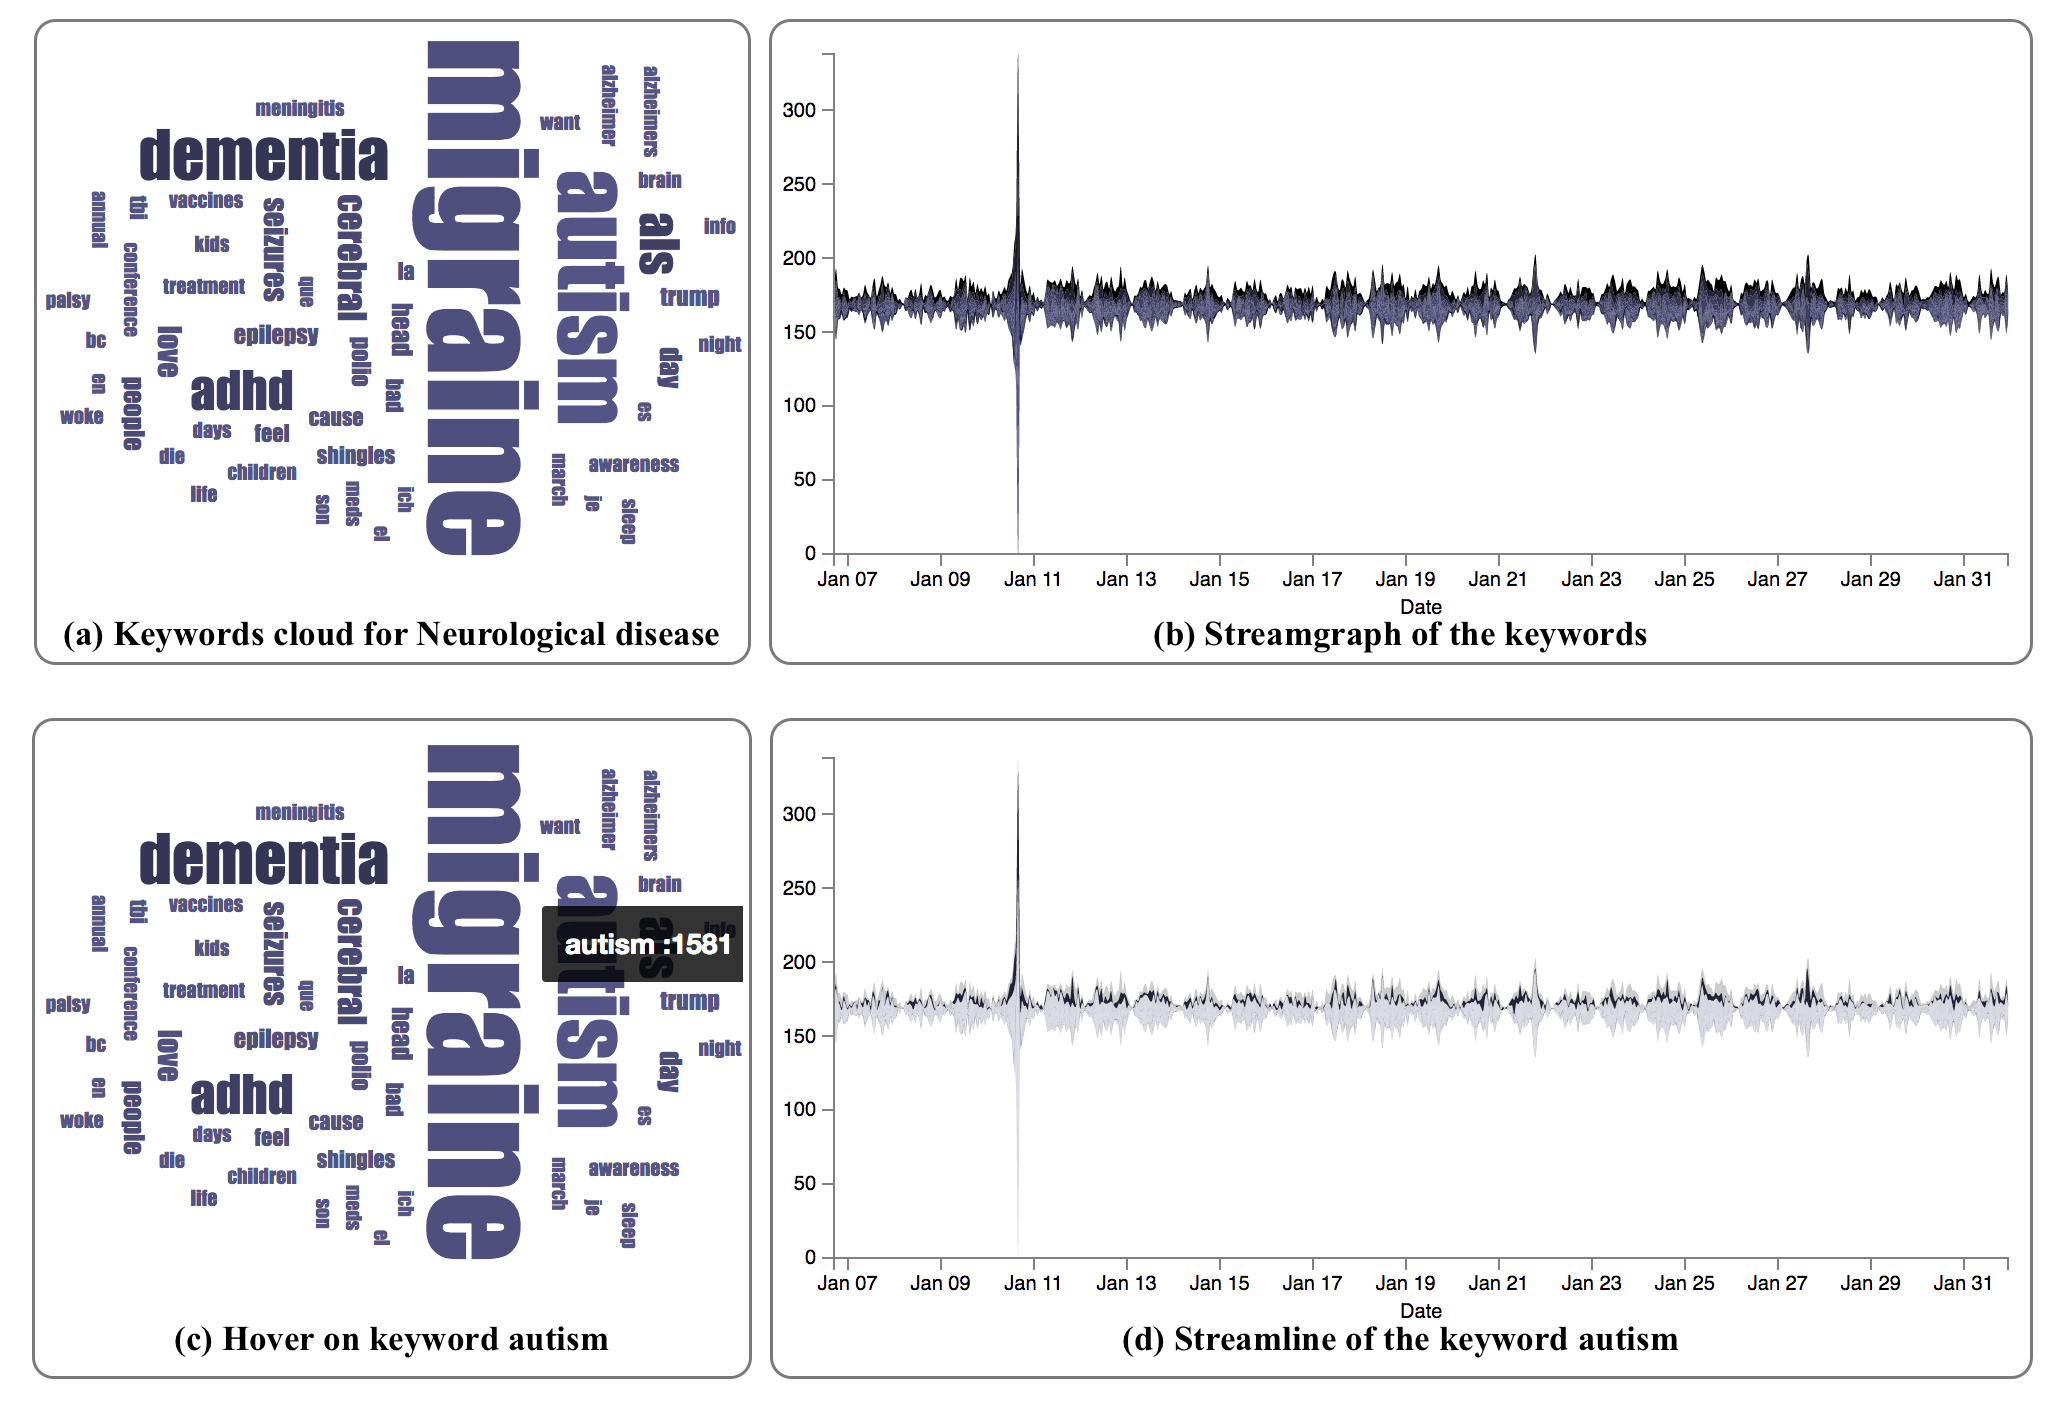
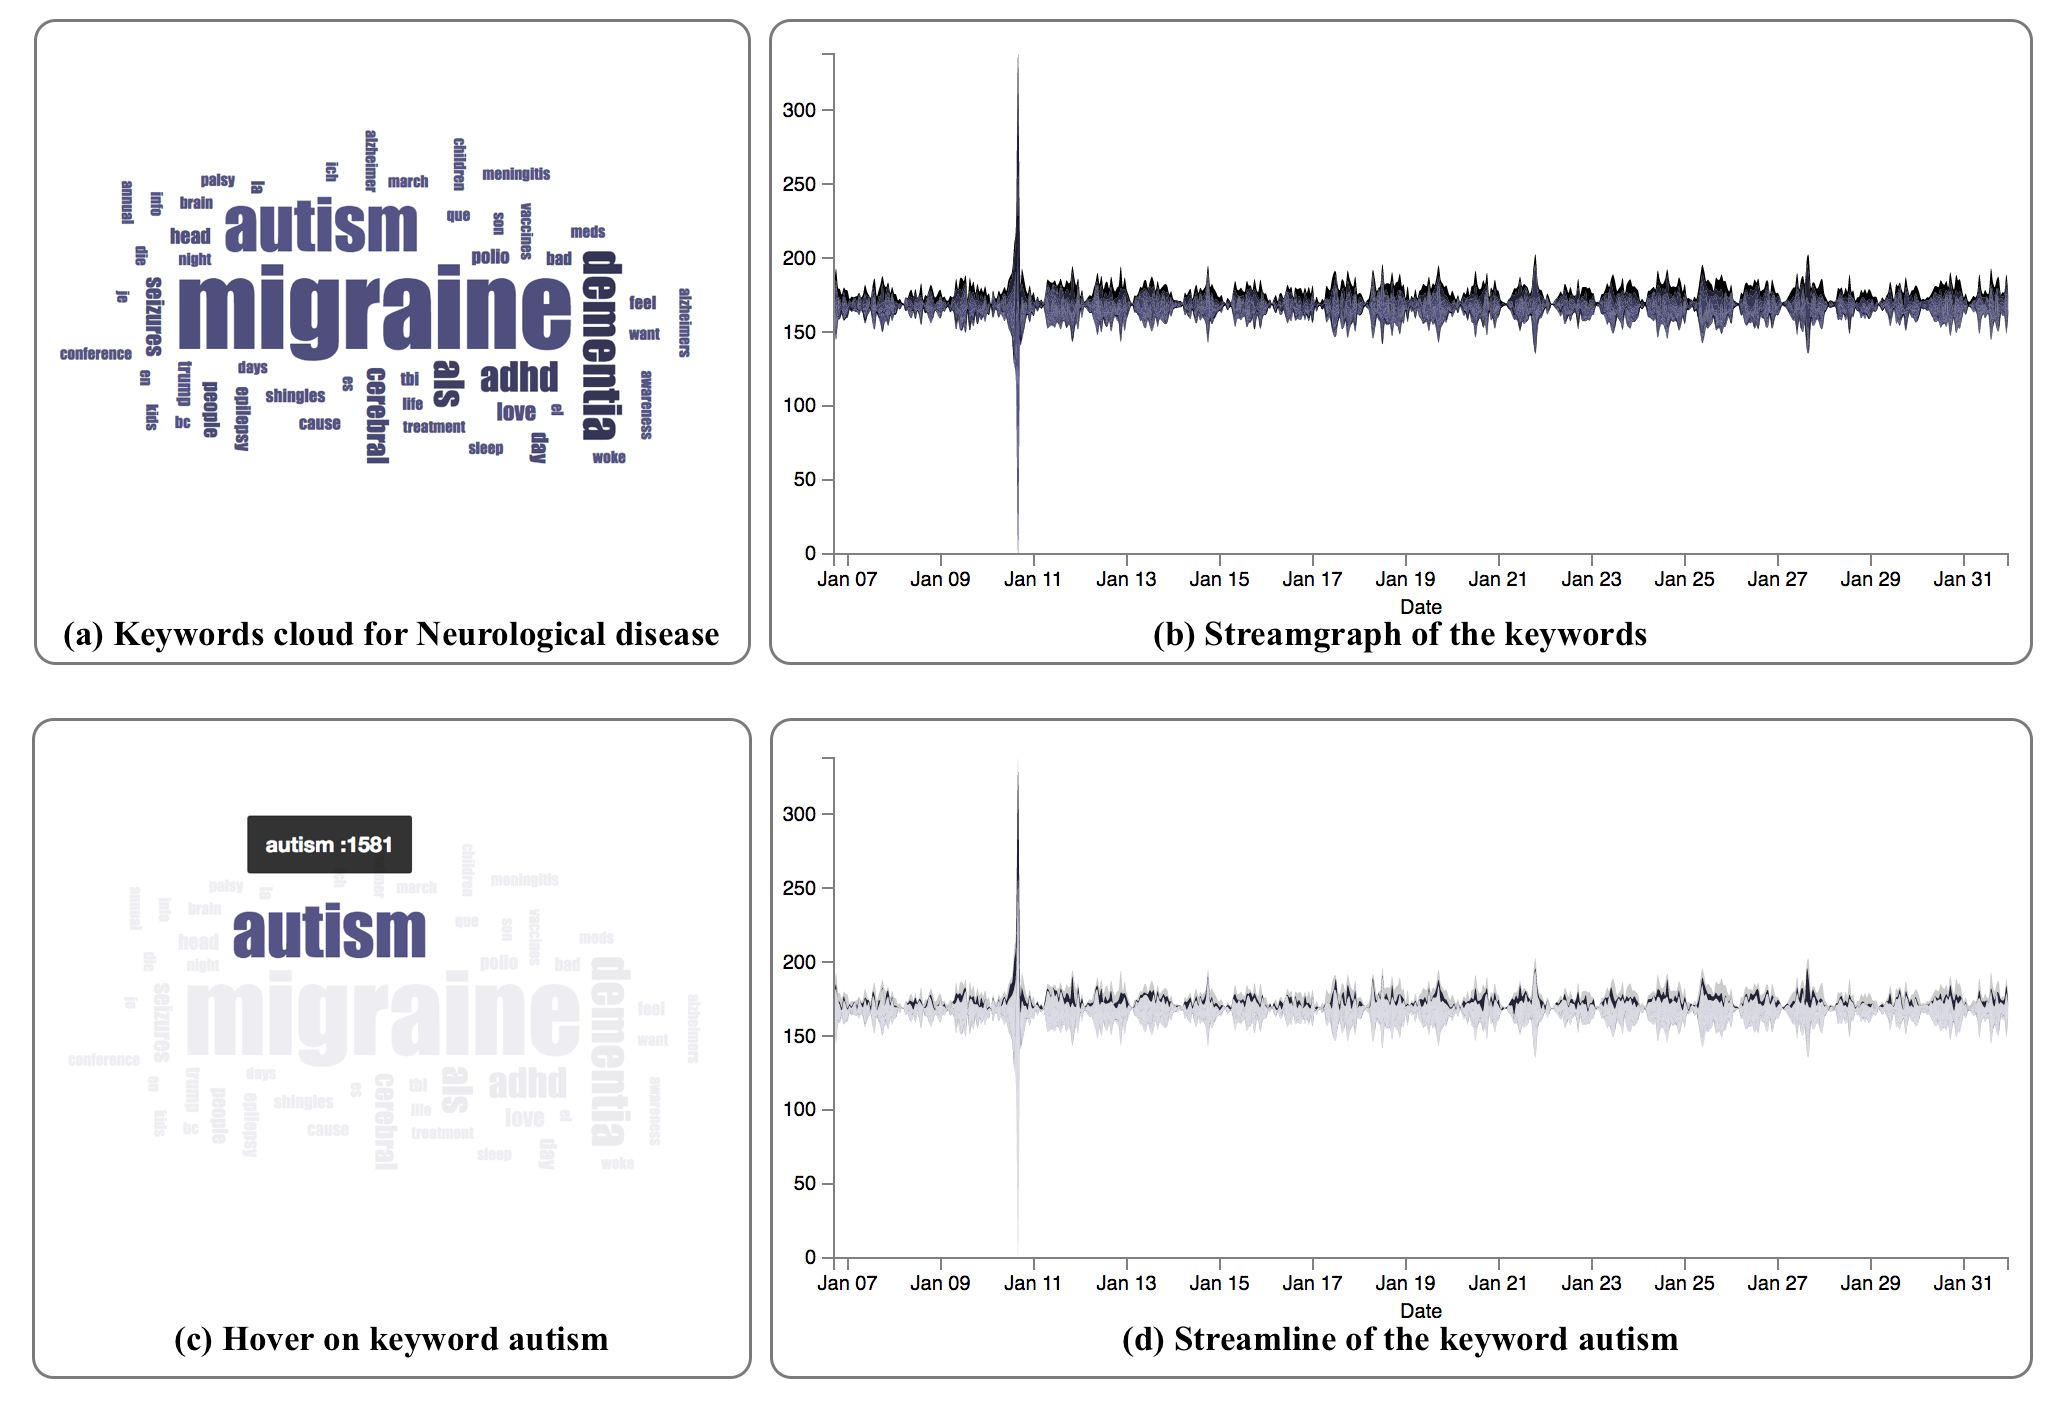
updates

Changed region(s): [[0.0308, 0.0312, 0.3695, 0.406], [0.0308, 0.5309, 0.3695, 0.9056]]

diff --git a/docs/index.html b/docs/index.html
@@ -693,7 +693,7 @@ function showNewWords2(vis, words) {
               .on("mousemove", function (d) {
                 //  d3.select(this).attr("opacity", "0.6");
                 wordTip.show(d, this);
-                highlightLayer({term: d.text});
+                // highlightLayer({term: d.text});
               })
                .on("mouseover", function (d) {
                  // console.log(d);
@@ -835,11 +835,14 @@ function showNewWords2(vis, words) {
               .on("mousemove", function (d) {
                 //  d3.select(this).attr("opacity", "0.6");
                 wordTip.show(d, this);
+                highlightWord2(d); 
                 highlightLayer2({term: d.text});
+
               })
               .on("mouseout", function (d) {
                 d3.select(this).attr("opacity", "1");
                 wordTip.hide();
+                unHighlightWord2()
                 unhighlightLayer2();
               })
               //handle single and double clicks
@@ -1026,12 +1029,12 @@ function showNewWords2(vis, words) {
             .attr("class", "layer")
             .call(updateLayer)
             .on("mouseover", function (d) {
-              highlightLayer(d);
-              highlightWord(d);
+              // highlightLayer(d);
+              // highlightWord(d);
             })
             .on("mouseout", function () {
-              unhighlightLayer();
-              unHighlightWord();
+              // unhighlightLayer();
+              // unHighlightWord();
             });
 
     // Lines separating stacked layers.
@@ -1475,7 +1478,7 @@ lineColor.domain([topTerms[0].freq, topTerms[49].freq]);
     var cloudText = svg2.selectAll("g text")
             .each(function (d1) {
               var currentText = d3.select(this);
-              if (d1.text == d.term) {
+              if (d1.text == d.text) {
                 wordTip.show(d1, this);
                 currentText.attr("opacity", "1");
               } else {
